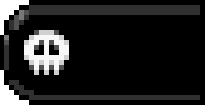
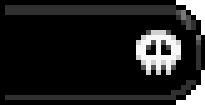
updates

diff --git a/phaser_smashed/src/scenes/SmashedGame.ts b/phaser_smashed/src/scenes/SmashedGame.ts
@@ -917,8 +917,10 @@ export default class SmashedGame extends Phaser.Scene {
     { x: SCREEN_DIMENSIONS.WIDTH * 0.42, y: SCREEN_DIMENSIONS.HEIGHT * 0.95 },
 
     { x: SCREEN_DIMENSIONS.WIDTH * 0.15, y: SCREEN_DIMENSIONS.HEIGHT * 0.95 },
-    // { x: SCREEN_DIMENSIONS.WIDTH * 0.03, y: SCREEN_DIMENSIONS.HEIGHT * 0.75 },
-    { x: SCREEN_DIMENSIONS.WIDTH * 0.1, y: SCREEN_DIMENSIONS.HEIGHT * 0.95 },
+    
+    // { x: SCREEN_DIMENSIONS.WIDTH * 0.1, y: SCREEN_DIMENSIONS.HEIGHT * 0.95 },
+
+    { x: SCREEN_DIMENSIONS.WIDTH * 0.03, y: SCREEN_DIMENSIONS.HEIGHT * 0.95 },
     { x: SCREEN_DIMENSIONS.WIDTH * 0.03, y: SCREEN_DIMENSIONS.HEIGHT * 0.674 },
   ];
 
@@ -947,7 +949,7 @@ export default class SmashedGame extends Phaser.Scene {
       scale: 0.6,
       sprite: null,
       posInit: {
-        x: SCREEN_DIMENSIONS.WIDTH * 0.123,
+        x: SCREEN_DIMENSIONS.WIDTH * 0.012,
         y: SCREEN_DIMENSIONS.HEIGHT * 0.95,
       },
     },

diff --git a/phaser_smashed/src/scenes/create.ts b/phaser_smashed/src/scenes/create.ts
@@ -1809,6 +1809,7 @@ function createBackgroundOutlineFront(game: SmashedGame): void {
   // game.BACKGROUND_OUTLINE.setOrigin(0.5, 0.5);
   game.BACKGROUND_OUTLINE_FRONT.setImmovable(true);
   game.BACKGROUND_OUTLINE_FRONT.body.allowGravity = false;
+  game.BACKGROUND_OUTLINE_FRONT.setDepth(1);
 }
 
 function createBackgroundOutlineBack(game: SmashedGame): void {
@@ -1944,6 +1945,8 @@ function createSplashes(game: SmashedGame): void {
         )
         .setOrigin(0.5, 0.5)
         .setAlpha(1);
+
+      splash.text.setDepth(1);
     }
   });
 }
